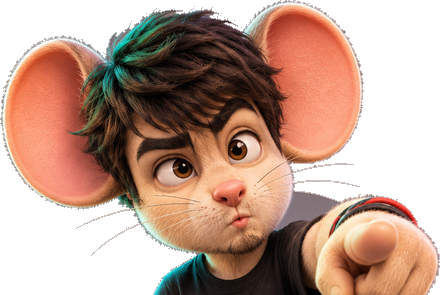
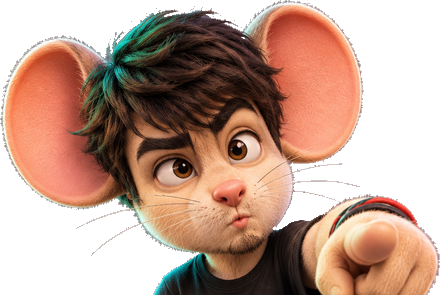
Menu: avatares sem corte aparente, fundo cinza removido das artes, brilho/holofote
- base reta da arte escondida atrás da faixa do nome (cantos arredondados)
- tools/clean_art.gd tira a sobra de fundo do recorte (Shinando, Ortiz corpo e cabeça)
- brilho radial atrás de cada cabeça, gradiente embaixo, holofote + sombra no painel

diff --git a/SPEC.md b/SPEC.md
@@ -237,7 +237,7 @@ Assets de terceiros: só **CC0** (Kenney: Car Kit, Food Kit, Racing Kit, UI Pack
 
 ### Tela de escolha de piloto (v0.20)
 - [x] **RF-260** Layout em duas colunas: à esquerda a grade 4×2 de cartas (retrato), à direita o painel do piloto em destaque (corpo inteiro, nome, 4 barras de atributo, quem está escolhendo). Topo: `MODO`, título e `CONFIGURAÇÕES`; embaixo a linha de opções e as dicas. Espaçamento uniforme (margem 24, espaço 12–16).
-- [x] **RF-261** A arte nunca sai da carta: cabeça encaixada (proporção mantida) dentro da área da carta, com recorte; nome numa faixa embaixo.
+- [x] **RF-261** A arte nunca sai da carta: cabeça encaixada (proporção mantida) dentro da área da carta, com recorte; nome numa faixa embaixo. A base reta da arte (corte nos ombros) fica escondida atrás da faixa do nome; brilho atrás da cabeça e escurecido embaixo; holofote e sombra no chão no painel. Sobra de fundo das artes do Shinando e do Ortiz removida por `tools/clean_art.gd` (só a cor do fundo, a partir de sementes).
 - [x] **RF-262** Animações: carta selecionada cresce e a borda pulsa; trocar de piloto desliza/esmaece a arte grande e anima as barras até o valor novo, com som; o corpo do piloto "respira". Passar o mouse numa carta seleciona.
 - [x] **RF-263** Confirmar: a carta dá um pulo com brilho, ganha o selo J1..J4 com a cor do jogador e toca o som de confirmação. No último jogador a tela escurece rápido antes da corrida.
 
